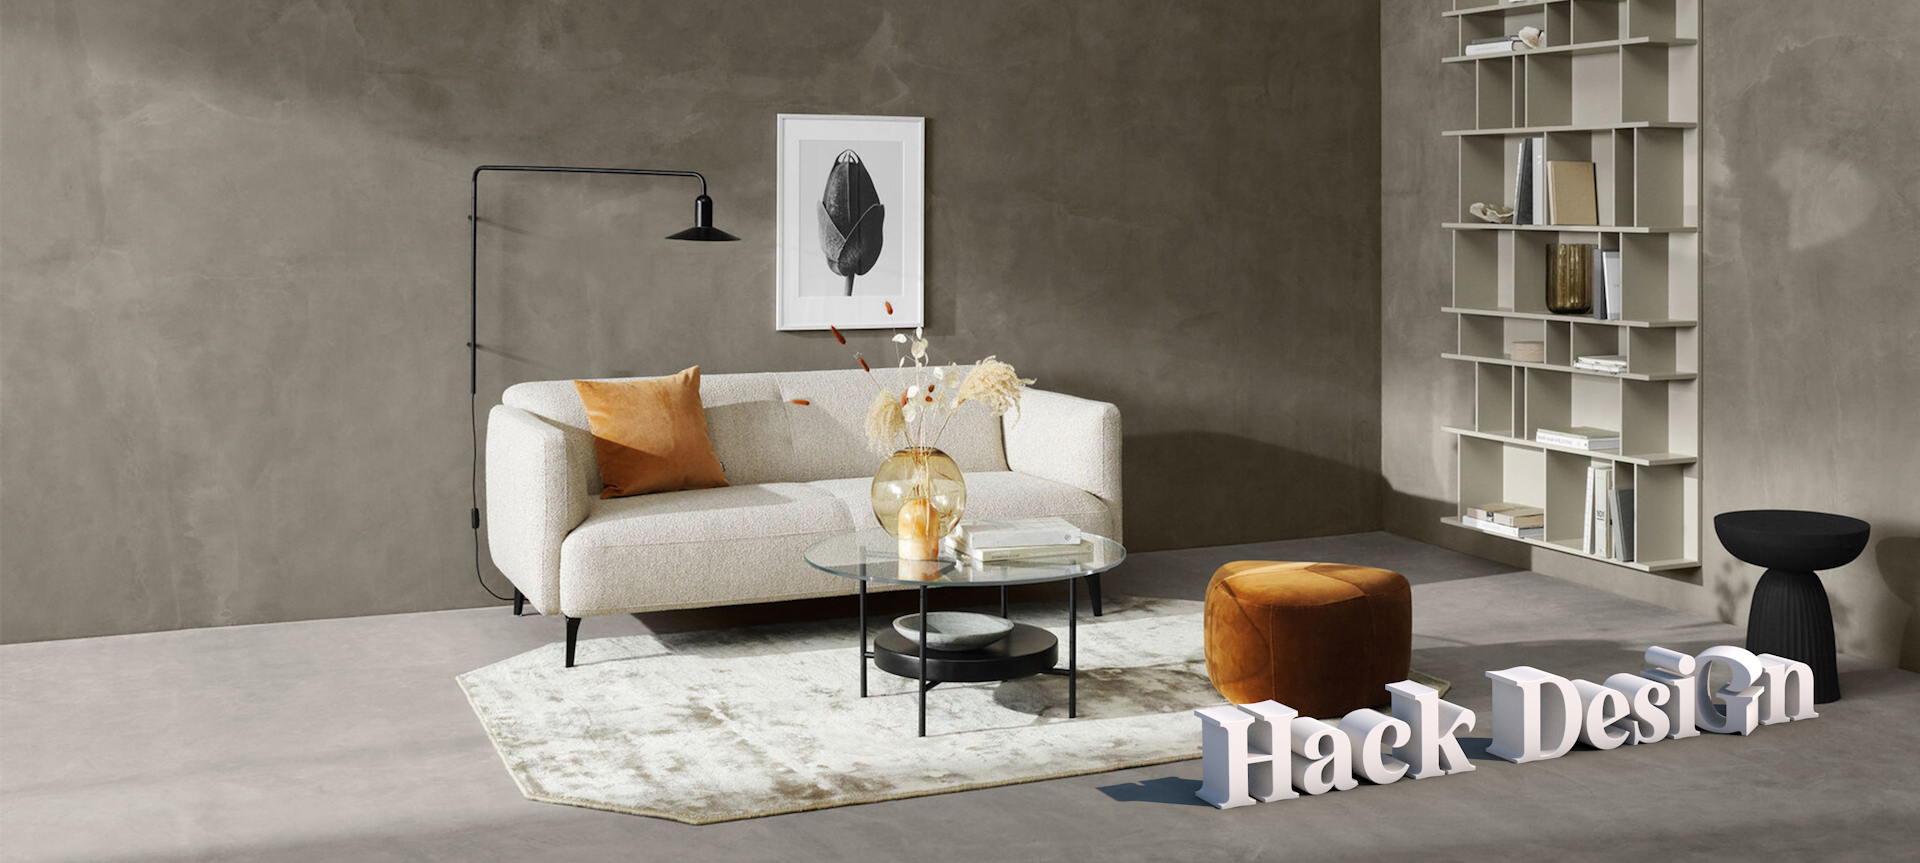
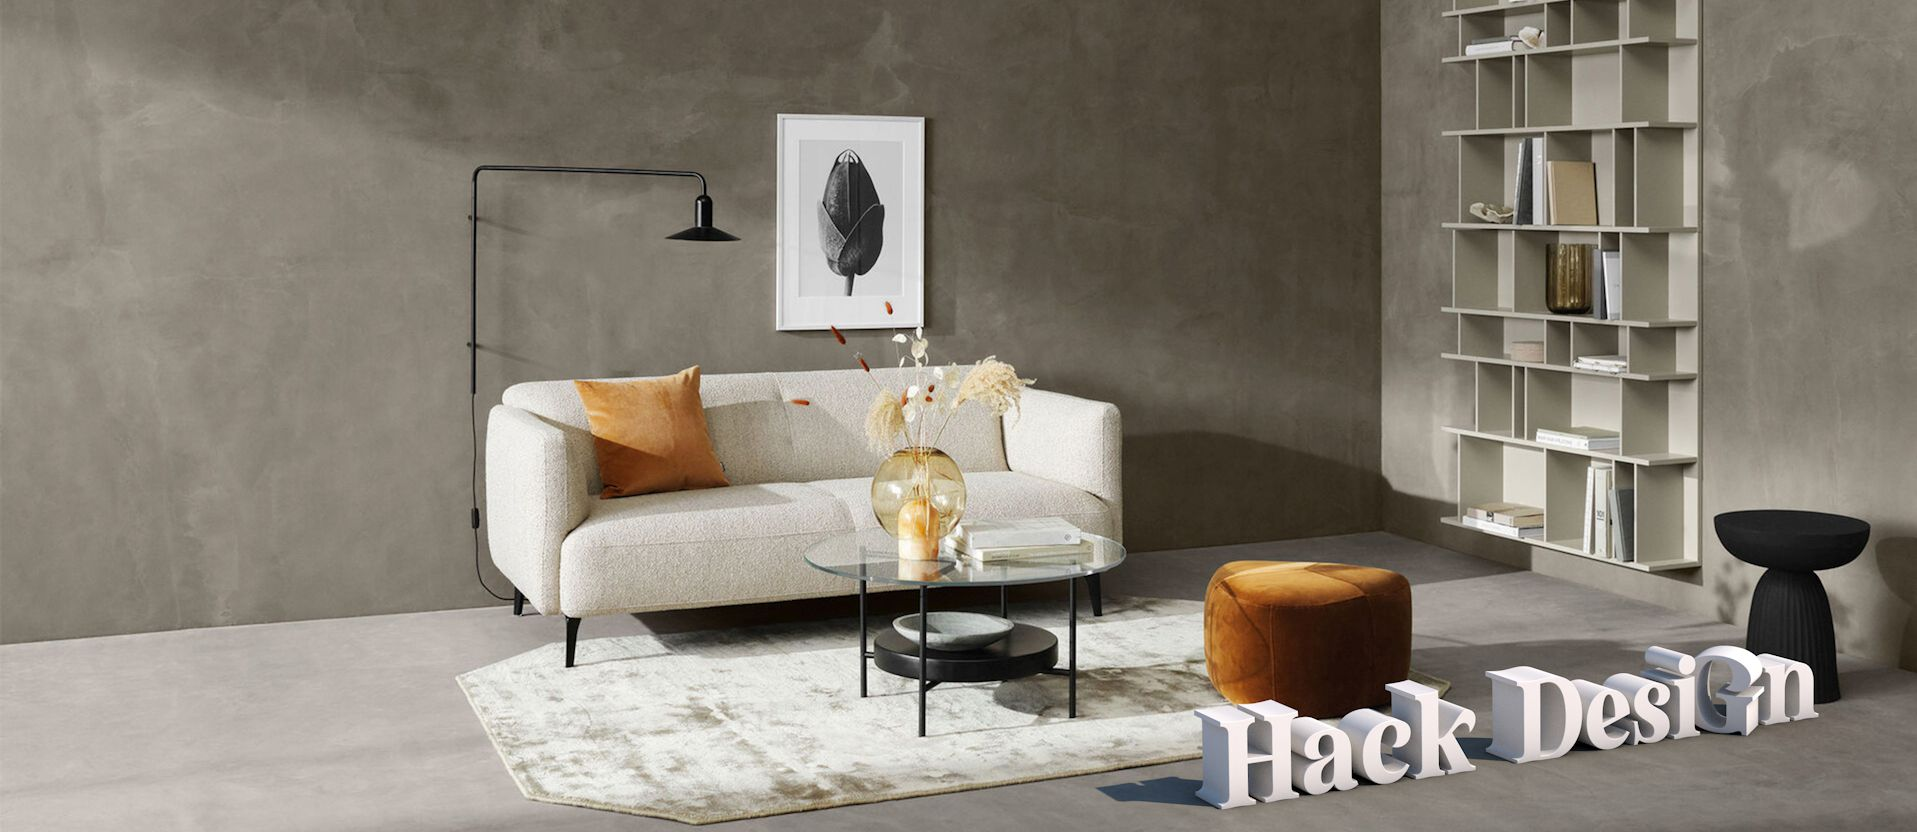
hero home image

diff --git a/src/Pages/Home.jsx b/src/Pages/Home.jsx
@@ -11,6 +11,7 @@ import sendingAllWorld from "../assets/svg/ofrecemos/flight-takeoff-line.svg";
 import weColaborate from "../assets/svg/ofrecemos/hand-heart-line.svg";
 import customerService from "../assets/svg/ofrecemos/customer-service-2-fill.svg";
 import securePayment from "../assets/svg/ofrecemos/secure-payment-line.svg";
+import HdHero from "../assets/img/ourProjectImages/HdHeroHome.jpg";
 
 export default function Home() {
   return (
@@ -18,12 +19,7 @@ export default function Home() {
       <Navbar />
       <Row className="p-0 g-0 rowHero">
         <Col className="p-0">
-          <Image
-            fluid
-            className={style.heroImg}
-            src="https://images.demandware.net/dw/image/v2/BBBV_PRD/on/demandware.static/-/Sites-master-catalog/default/dw46f7c3f9/images/productsets/1544033.jpg?sw=2000"
-            alt="presentation image"
-          />
+          <Image fluid className={style.heroImg} src={HdHero} alt="presentation image" />
         </Col>
       </Row>
       <div className="container">
